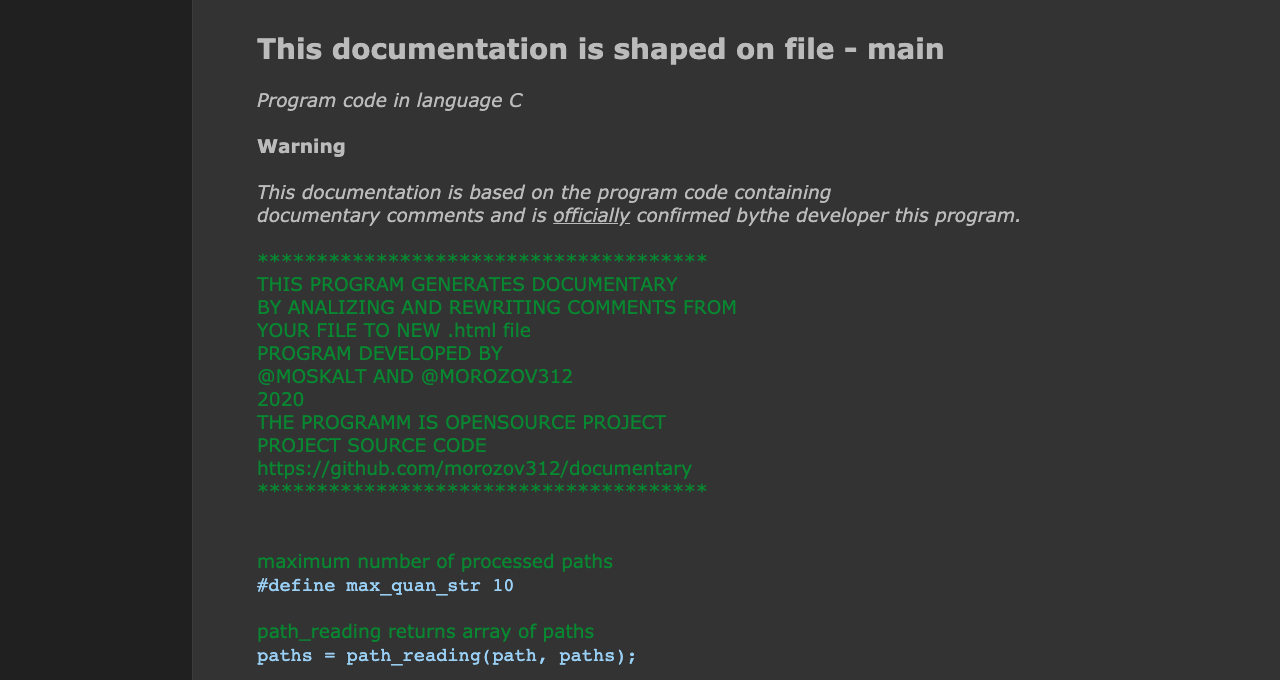
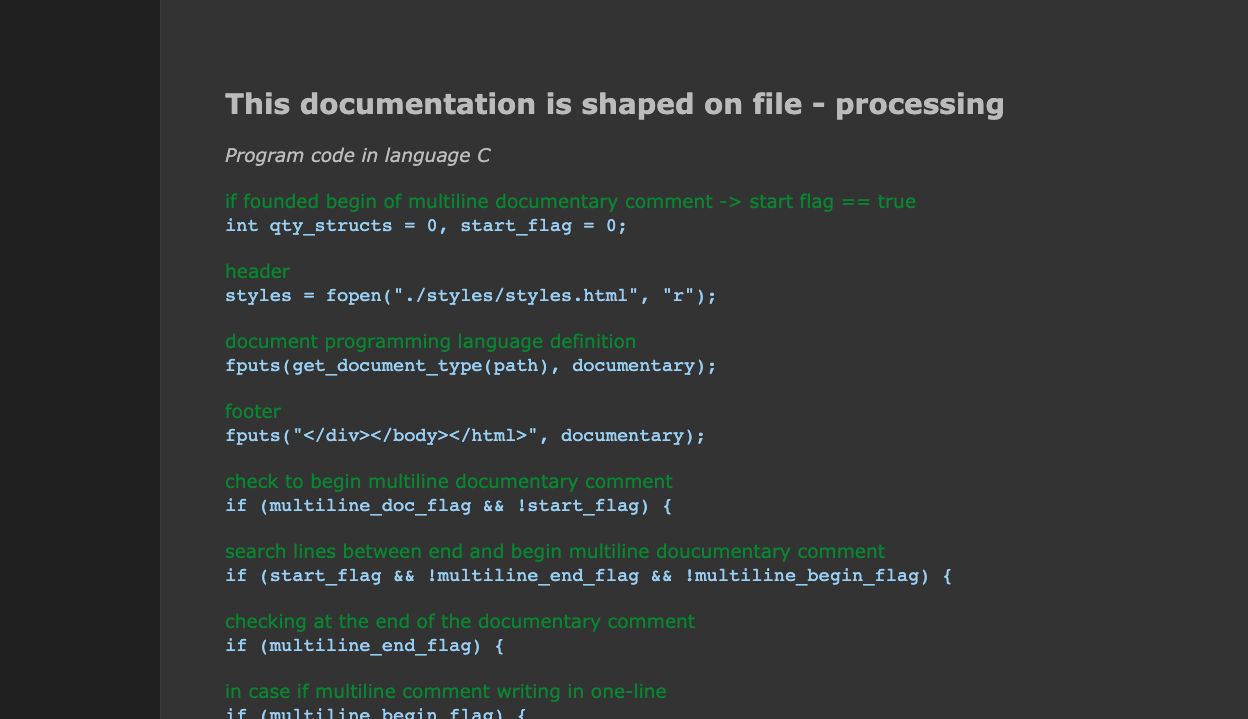
adding exampels of documentation in folder ./example

Changed region(s): [[0.1875, 0.3706, 0.75, 1.0], [0.1875, 0.1235, 0.8125, 0.3397], [0.1875, 0.0309, 0.75, 0.0926]]

diff --git a/example/processing_Mon_May_18_15:14:14_2020.html b/example/processing_Mon_May_18_15:14:14_2020.html
@@ -1,0 +1,61 @@
+<!DOCTYPE html><html><head><meta charset=" UTF - 8" >
+<style type="text/css">
+#wrapper
+{
+    width: 100%;
+    height: 100%;
+    min-height: 900px;
+    margin-left: 15%;
+    padding-top: 5%;
+    padding-left: 5%;
+    border: 1px solid #3d3d3d;
+    background: #333;
+}
+body
+{
+    font: 14pt Verdana, sans-serif;
+    min-width: auto;
+    margin: 0;
+    padding: 0;
+    color: #bbb;
+    background: #202020;
+}
+p.comment
+{
+    margin: 0;
+    padding: 0;
+    color: #20871b;
+}
+code
+{
+    color: #9ccef7;
+}
+</style>
+</head><body><div id="wrapper">
+<h2>This documentation is shaped on file - processing</h2><i>Program code in language C</i></br></br><p class="comment"> if founded begin of multiline documentary comment -&gt start flag == true   
+</br></p><code>int qty_structs = 0, start_flag = 0;
+</code></br></br><p class="comment"> header
+</br></p><code>    styles = fopen("./styles/styles.html", "r");
+</code></br></br><p class="comment"> document programming language definition
+</br></p><code>    fputs(get_document_type(path), documentary);
+</code></br></br><p class="comment"> footer
+</br></p><code>    fputs("&lt/div&gt&lt/body&gt&lt/html&gt", documentary);
+</code></br></br><p class="comment"> check to begin multiline documentary comment
+</br></p><code>        if (multiline_doc_flag && !start_flag) {
+</code></br></br><p class="comment"> search lines between end and begin multiline doucumentary comment
+</br></p><code>        if (start_flag && !multiline_end_flag && !multiline_begin_flag) {
+</code></br></br><p class="comment"> checking at the end of the documentary comment
+</br></p><code>        if (multiline_end_flag) {
+</code></br></br><p class="comment"> in case if multiline comment writing in one-line
+</br></p><code>            if (multiline_begin_flag) {
+</code></br></br><p class="comment"> search singleline comment if there wasn't start of multiline comment
+</br></p><code>        if (singleline_doc_flag && !start_flag) {
+</code></br></br><p class="comment"> if file cannot be read
+</br></p><code>    if (document_data == NULL) {
+</code></br></br><p class="comment"> this error appears if the document empty ot has 1 line
+</br></p><code>    if (count_of_lines &lt= 1) {
+</code></br></br><p class="comment"> calling function of the main algorithm
+</br></p><code>    comment* comments_array = create(count_of_lines, document_data);
+</code></br></br><p class="comment"> if was a beginning of a documentary comment but there wasn't end
+</br></p><code>    if (start_flag) {
+</code></br></br></div></body></html>

diff --git a/example/utilities_Mon_May_18_15:14:14_2020.html b/example/utilities_Mon_May_18_15:14:14_2020.html
@@ -1,0 +1,59 @@
+<!DOCTYPE html><html><head><meta charset=" UTF - 8" >
+<style type="text/css">
+#wrapper
+{
+    width: 100%;
+    height: 100%;
+    min-height: 900px;
+    margin-left: 15%;
+    padding-top: 5%;
+    padding-left: 5%;
+    border: 1px solid #3d3d3d;
+    background: #333;
+}
+body
+{
+    font: 14pt Verdana, sans-serif;
+    min-width: auto;
+    margin: 0;
+    padding: 0;
+    color: #bbb;
+    background: #202020;
+}
+p.comment
+{
+    margin: 0;
+    padding: 0;
+    color: #20871b;
+}
+code
+{
+    color: #9ccef7;
+}
+</style>
+</head><body><div id="wrapper">
+<h2>This documentation is shaped on file - utilities</h2><i>Program code in language C</i></br></br><p class="comment"> Functions in this file makes checks on simple(non-documentary) comments.
+</br></p><p class="comment">   These checks will be used for searching documentary comments and code lines  
+</br></p><code>
+</code></br></br><p class="comment"> Count of read paths
+</br></p><code>int counter = 0;
+</code></br></br><p class="comment"> This function replaces &lt and &gt special characters for correct display in
+</br></p><p class="comment"> html page
+</br></p><code>char* exclude_html(char* str)
+</code></br></br><p class="comment"> In the worst case, string is increased 3 times + '\0'
+</br></p><code>    char* without_html_str = (char*)calloc((len * 3) + 1, sizeof(char));
+</code></br></br><p class="comment"> This function returns file's name without its extension
+</br></p><code>const char* filename_without_extension(char* path)
+</code></br></br><p class="comment"> This function recursively finds paths to all files in folder
+</br></p><code>void recursive_files_search(char* path, char** paths)
+</code></br></br><p class="comment"> Hidden and system files check
+</br></p><code>        if (dir-&gtd_name[0] == '.') {
+</code></br></br><p class="comment"> This function returns input directory from command line arguments
+</br></p><code>char* get_inpdir(int qty, char* array_argv[])
+</code></br></br><p class="comment"> This function returns output directory from command line arguments
+</br></p><code>char* get_outdir(int qty, char* array_argv[])
+</code></br></br><p class="comment"> This function returns array of data from file
+</br></p><code>char** get_data_from_document(char* paths)
+</code></br></br><p class="comment"> This function returns file's extention
+</br></p><code>char* get_file_extension(const char* path)
+</code></br></br></div></body></html>

diff --git a/example/advanced_handle_Mon_May_18_15:14:13_2020.html b/example/advanced_handle_Mon_May_18_15:14:13_2020.html
@@ -1,0 +1,45 @@
+<!DOCTYPE html><html><head><meta charset=" UTF - 8" >
+<style type="text/css">
+#wrapper
+{
+    width: 100%;
+    height: 100%;
+    min-height: 900px;
+    margin-left: 15%;
+    padding-top: 5%;
+    padding-left: 5%;
+    border: 1px solid #3d3d3d;
+    background: #333;
+}
+body
+{
+    font: 14pt Verdana, sans-serif;
+    min-width: auto;
+    margin: 0;
+    padding: 0;
+    color: #bbb;
+    background: #202020;
+}
+p.comment
+{
+    margin: 0;
+    padding: 0;
+    color: #20871b;
+}
+code
+{
+    color: #9ccef7;
+}
+</style>
+</head><body><div id="wrapper">
+<h2>This documentation is shaped on file - advanced_handle</h2><i>Program code in language C</i></br></br><p class="comment">******************************************************************
+</br></p><p class="comment">   Creates a unique file name which takes
+</br></p><p class="comment">   the name, day, number and time of creation of the documentation
+</br></p><p class="comment">  ******************************************************************  
+</br></p><code>char* file_name_generator(char* path, char* dest_dir)
+</code></br></br><p class="comment">******************************************************************
+</br></p><p class="comment">   This funtion reterned description to type of document, which will be written
+</br></p><p class="comment">   to the html page header
+</br></p><p class="comment">  ******************************************************************  
+</br></p><code>char* get_document_type(char* path)
+</code></br></br></div></body></html>

diff --git a/example/main_Mon_May_18_15:14:14_2020.html b/example/main_Mon_May_18_15:14:14_2020.html
@@ -1,0 +1,50 @@
+<!DOCTYPE html><html><head><meta charset=" UTF - 8" >
+<style type="text/css">
+#wrapper
+{
+    width: 100%;
+    height: 100%;
+    min-height: 900px;
+    margin-left: 15%;
+    padding-top: 5%;
+    padding-left: 5%;
+    border: 1px solid #3d3d3d;
+    background: #333;
+}
+body
+{
+    font: 14pt Verdana, sans-serif;
+    min-width: auto;
+    margin: 0;
+    padding: 0;
+    color: #bbb;
+    background: #202020;
+}
+p.comment
+{
+    margin: 0;
+    padding: 0;
+    color: #20871b;
+}
+code
+{
+    color: #9ccef7;
+}
+</style>
+</head><body><div id="wrapper">
+<h2>This documentation is shaped on file - main</h2><i>Program code in language C</i></br></br><p class="comment">*************************************
+</br></p><p class="comment">   THIS PROGRAM GENERATES DOCUMENTARY
+</br></p><p class="comment">   BY ANALIZING AND REWRITING COMMENTS FROM
+</br></p><p class="comment">   YOUR FILE TO NEW .html file
+</br></p><p class="comment">   PROGRAM DEVELOPED BY
+</br></p><p class="comment">   @MOSKALT AND @MOROZOV312
+</br></p><p class="comment">            2020
+</br></p><p class="comment">   THIS PROGRAMM IS OPENSOURCE PROJECT
+</br></p><p class="comment">   https://github.com/morozov312/documentary
+</br></p><p class="comment">  **************************************  
+</br></p><code>
+</code></br></br><p class="comment"> Maximum path length
+</br></p><code>#define MAX_PATH_LEN 255
+</code></br></br><p class="comment"> Maximum count of files
+</br></p><code>#define MAX_COUNT_OF_FILES 30
+</code></br></br></div></body></html>
